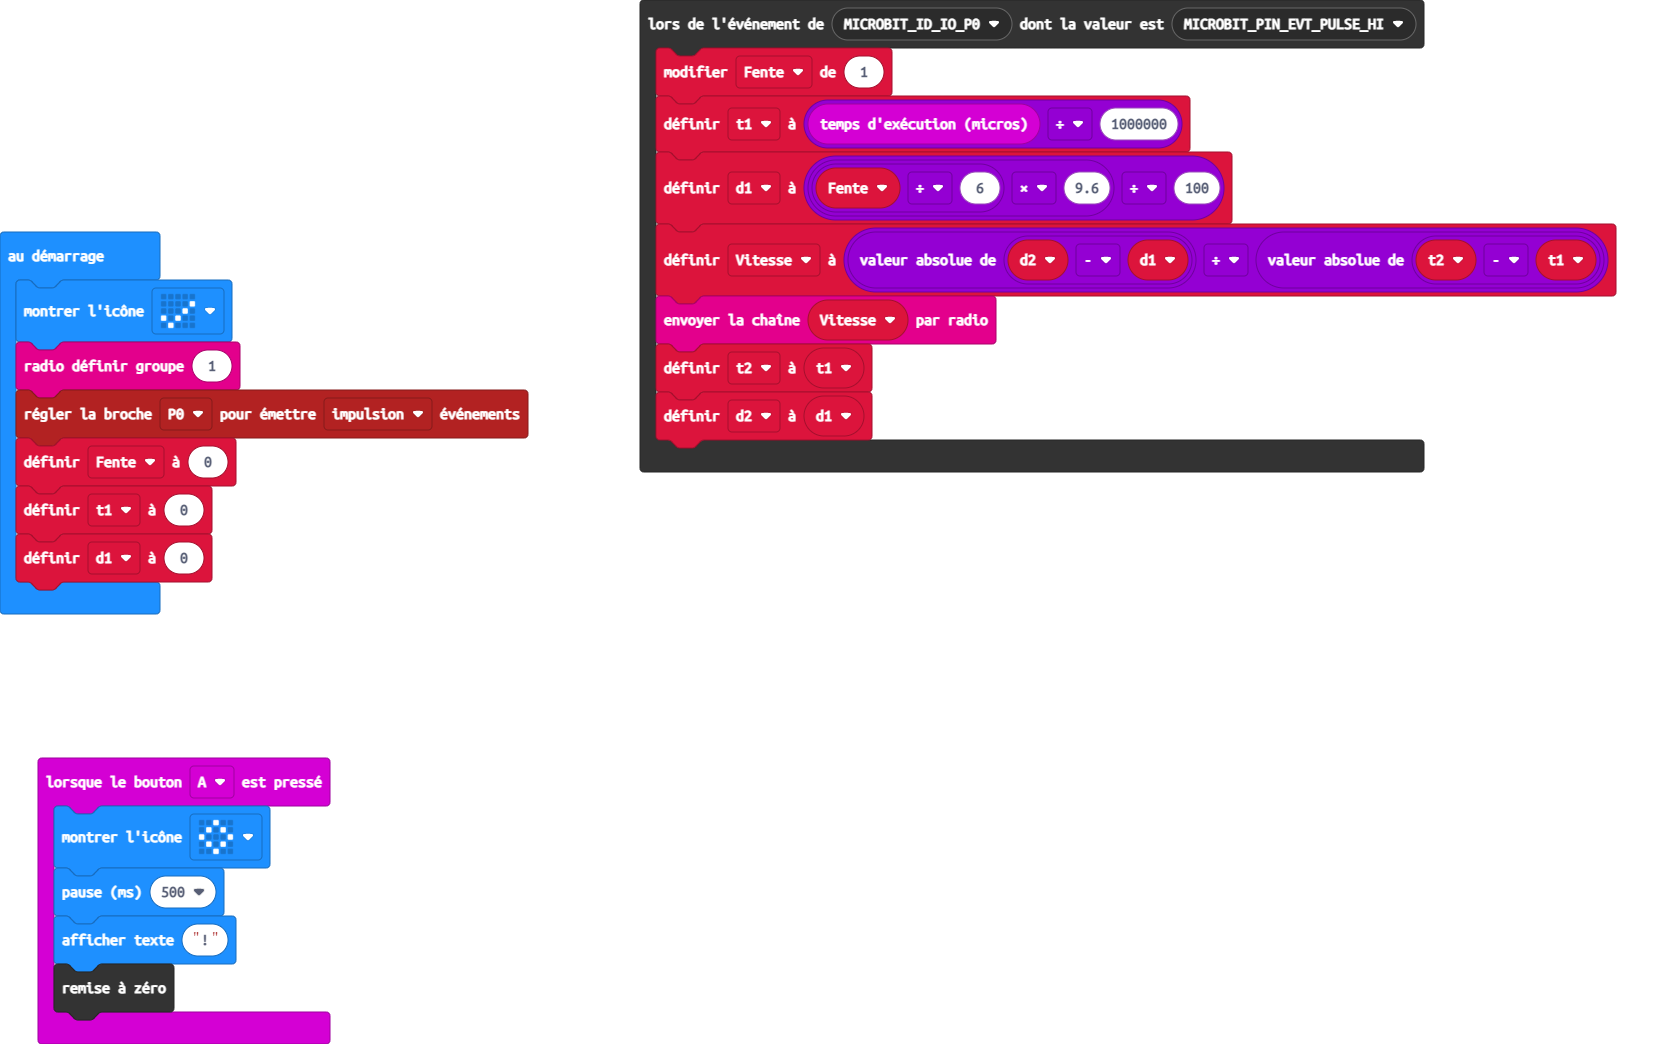
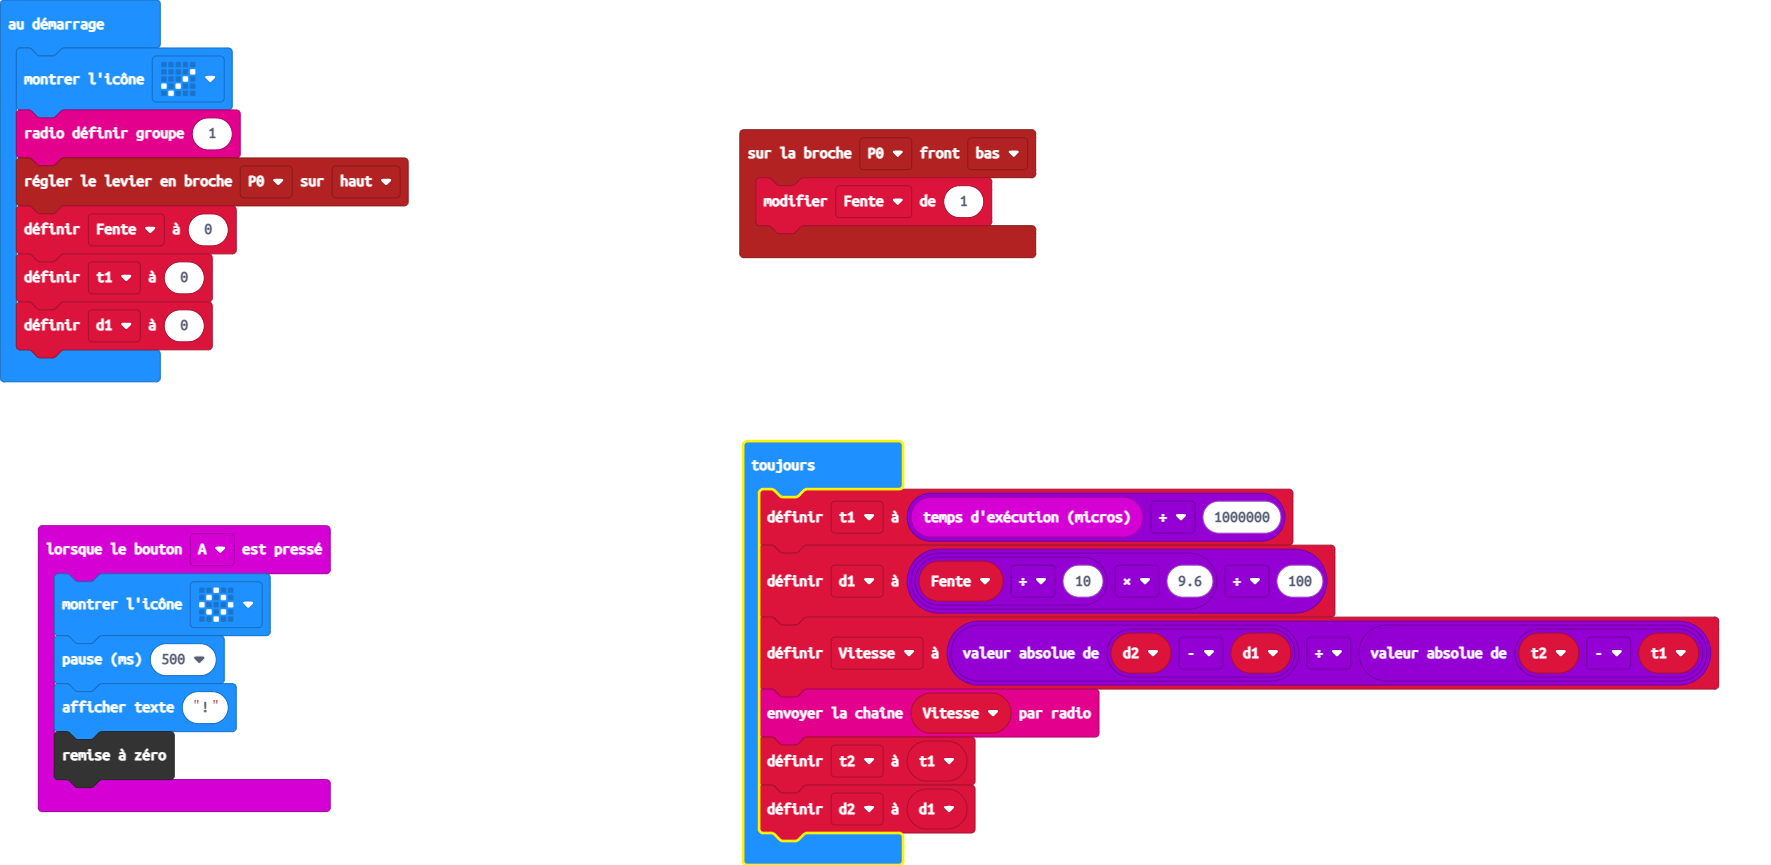
Modif retrait pulse et intro blocs P0 haut et bas.  Lecture P0 en continue

diff --git a/main.ts b/main.ts
@@ -1,27 +1,26 @@
-control.onEvent(EventBusSource.MICROBIT_ID_IO_P0, EventBusValue.MICROBIT_PIN_EVT_PULSE_HI, function () {
-    Fente += 1
-    t1 = input.runningTimeMicros() / 1000000
-    d1 = Fente / 6 * 9.6 / 100
-    Vitesse = Math.abs(d2 - d1) / Math.abs(t2 - t1)
-    radio.sendString("" + (Vitesse))
-    t2 = t1
-    d2 = d1
-})
 input.onButtonPressed(Button.A, function () {
     basic.showIcon(IconNames.Diamond)
     basic.pause(500)
     basic.showString("!")
     control.reset()
 })
+pins.onPulsed(DigitalPin.P0, PulseValue.Low, function () {
+    Fente += 1
+})
 let t2 = 0
 let d2 = 0
 let Vitesse = 0
-let d1 = 0
-let t1 = 0
-let Fente = 0
 basic.showIcon(IconNames.Yes)
 radio.setGroup(1)
-pins.setEvents(DigitalPin.P0, PinEventType.Pulse)
-Fente = 0
-t1 = 0
-d1 = 0
+pins.setPull(DigitalPin.P0, PinPullMode.PullUp)
+let Fente = 0
+let t1 = 0
+let d1 = 0
+basic.forever(function () {
+    t1 = input.runningTimeMicros() / 1000000
+    d1 = Fente / 10 * 9.6 / 100
+    Vitesse = Math.abs(d2 - d1) / Math.abs(t2 - t1)
+    radio.sendString("" + (Vitesse))
+    t2 = t1
+    d2 = d1
+})
